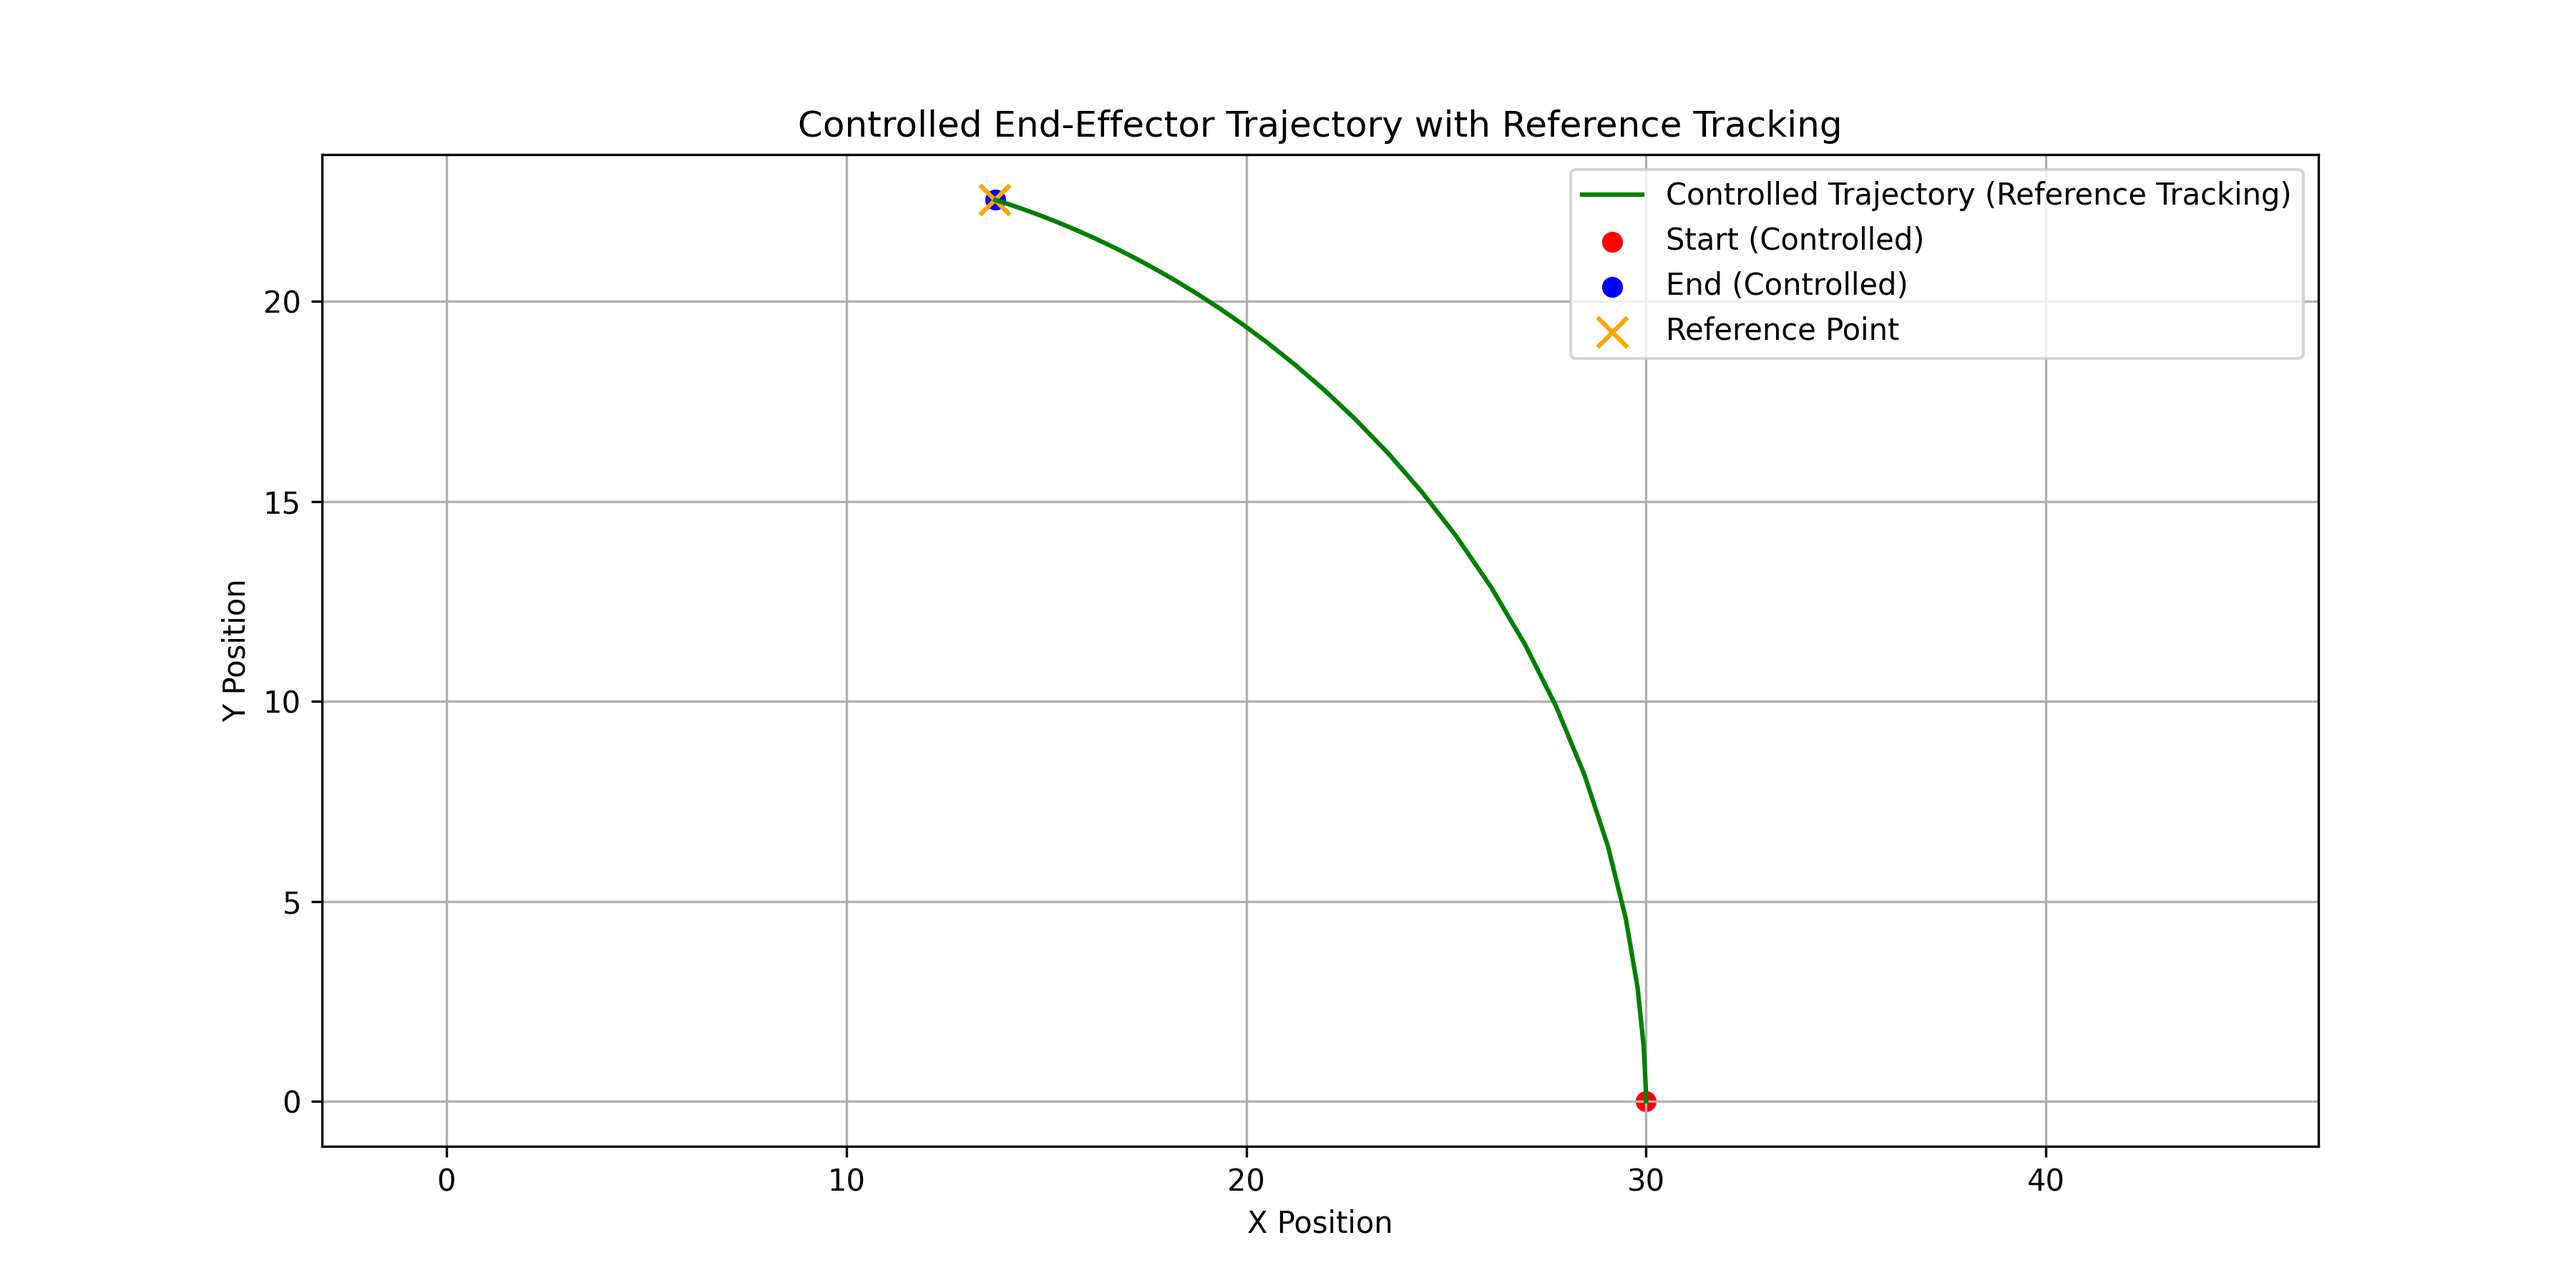
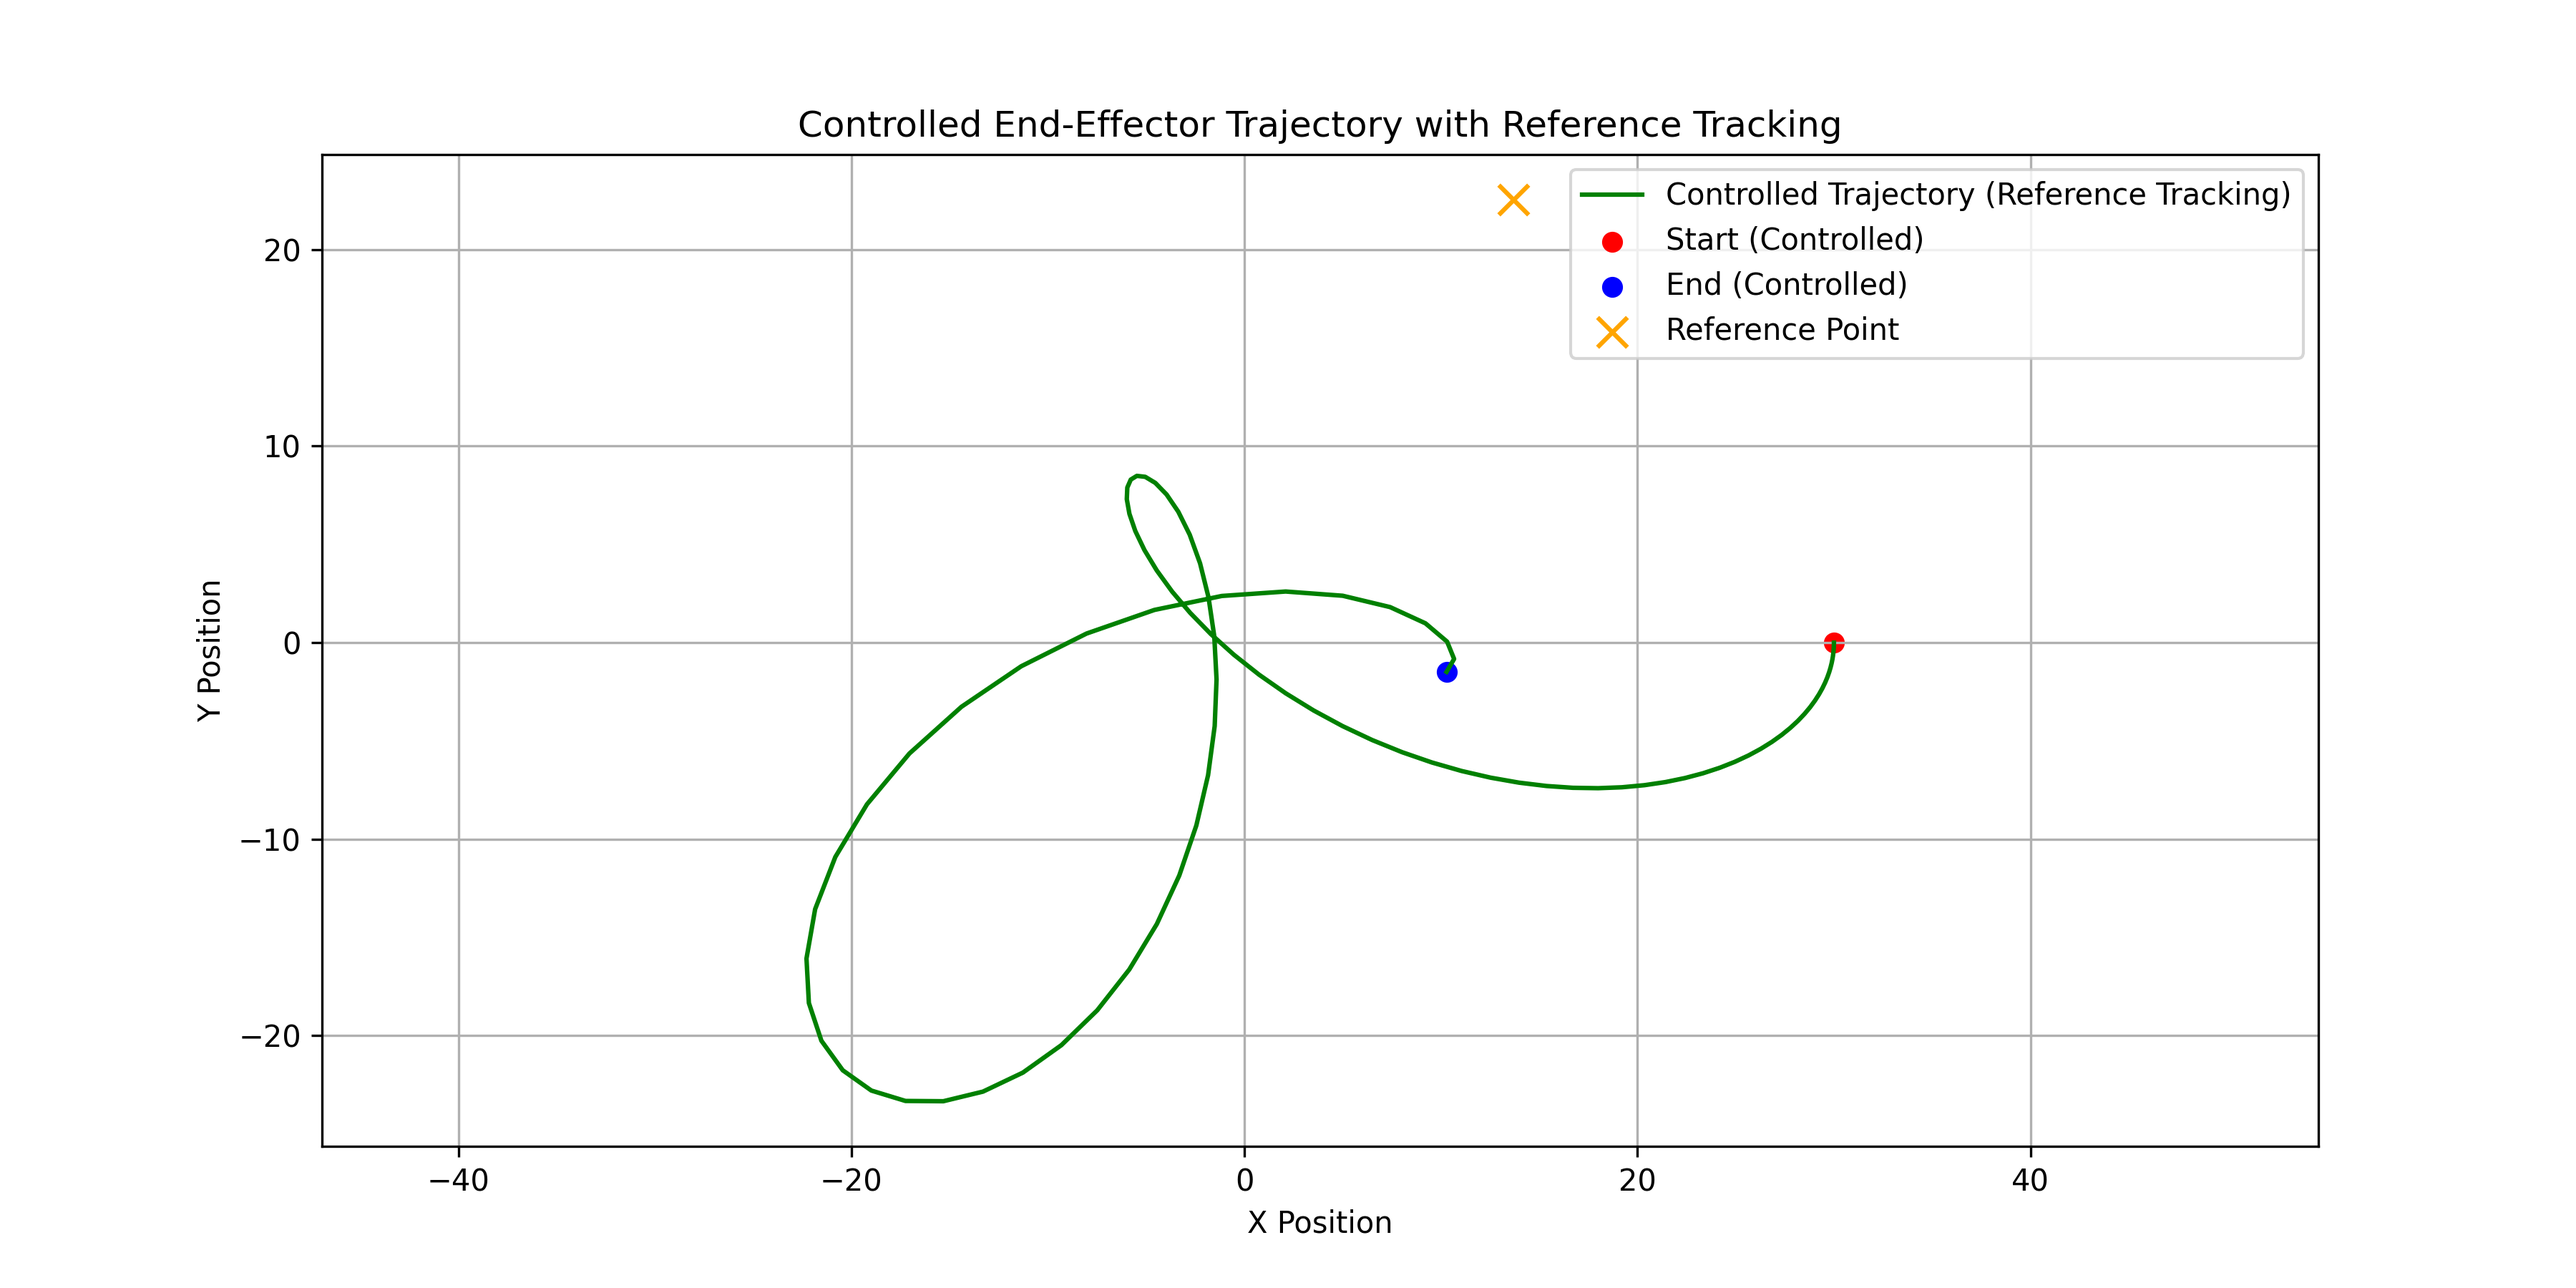
Add MPC - not working

diff --git a/Scripts/MPC.py b/Scripts/MPC.py
@@ -1,6 +1,7 @@
 import jax
 import jax.numpy as jnp
 import numpy as np
+import cvxpy as cp
 from sympy import symbols, N
 import matplotlib.pyplot as plt
 from matplotlib.animation import FuncAnimation
@@ -97,49 +98,74 @@ print("Controllability Matrix (Q_c):")
 print(controllability_matrix)
 print("\nIs the system controllable?", is_controllable)
 
-# Define LQR controller function
-def lqr(A, B, Q, R):
-    """Solve the continuous-time LQR controller."""
-    P = solve_continuous_are(A, B, Q, R)  # Solve Riccati equation
-    K = np.linalg.inv(R) @ (B.T @ P)  # Compute gain matrix
-    return K, P
+# Aggressive control weights
+Q = jnp.diag(jnp.array([500.0] * 3 + [0.0] * 3))  # High state cost
+R = np.eye(B.shape[1]) * 0.001  # Low control effort cost
+R_delta = np.eye(B.shape[1]) * 0.1  # Penalize slow changes in input
 
-# Define Q and R matrices
-cared_states_matrix = jnp.zeros((6, 6))
-cared_states_matrix = cared_states_matrix.at[:3, :3].set(jnp.eye(3))
+# Shorter prediction horizon
+N = 10
 
-Q = cared_states_matrix*100 # State cost matrix
-R = np.eye(B.shape[1])*0.001  # Control effort cost matrix
+# Expanded constraints
+u_max = 500
+u_min = 0
 
-def enforce_positive_input(u, bias=0.01):
-    return jnp.maximum(u, bias)
+# Solve MPC with updated aggressive settings
+def solve_mpc(x, x_ref, A, B, Q, R, R_delta, N, u_min=0, u_max=50):
+    # Convert matrices to NumPy for cvxpy
+    A_np, B_np, Q_np, R_np, R_delta_np = map(np.array, (A, B, Q, R, R_delta))
+    x_np = np.array(x)
+    x_ref_np = np.array(x_ref)
 
-# Compute LQR gain matrix
-K_lqr, P = lqr(A, B, Q, R)
+    n, m = A_np.shape[0], B_np.shape[1]
 
-print("LQR Gain Matrix (K):")
-print(K_lqr)
+    # Check dimensions
+    assert n > 0, "State dimension must be greater than 0."
+    assert m > 0, "Input dimension must be greater than 0."
+    assert N > 0, "Prediction horizon must be a positive integer."
 
-# Define the desired reference state
-# Adjust generalized coordinates or velocities as needed
-x_ref = jnp.array([0.5, 0.4, 0.8, 0.0, 0.0, 0.0])  # Reference generalized coordinates and velocities
+    U = cp.Variable((N, m))
+    X = cp.Variable((N + 1, n))
 
-# Update the state-space dynamics with LQR control and reference tracking
-def state_space_dynamics_with_reference(t, x, A, B, K, x_ref, u_log):
-    # Compute control input with reference tracking
-    u_t = -K @ (x - x_ref)
+    constraints = [X[0] == x_np]
+    cost = 0
+
+    for k in range(N):
+        cost += cp.quad_form(X[k] - x_ref_np, Q_np) + cp.quad_form(U[k], R_np)
+        constraints += [X[k + 1] == A_np @ X[k] + B_np @ U[k]]
+        constraints += [U[k] >= u_min, U[k] <= u_max]
+
+    problem = cp.Problem(cp.Minimize(cost), constraints)
+    problem.solve()
+
+    if problem.status != cp.OPTIMAL:
+        raise ValueError("MPC optimization problem not solved to optimality!")
+
+    return np.array(U.value[0]).flatten()
+
+
+
+# Update the state-space dynamics to use MPC
+def state_space_dynamics_with_mpc(t, x, A, B, x_ref, u_log):
+    u_t = solve_mpc(np.array(x), x_ref, A, B, Q, R, R_delta, N, u_min, u_max)
     dxdt = A @ x + B @ u_t
     u_log.append(u_t)
     return dxdt
 
-# Initial conditions (all states start at zero)
+
+x_ref = jnp.array([0.5, 0.4, 0.8, 0.0, 0.0, 0.0])  # Reference generalized coordinates and velocities
 x0 = jnp.zeros(A.shape[0])
 
-u_log = []
+def end_effector_position(q1, q2, q3, l_val):
+    # Compute position using forward kinematics
+    x = l_val * (jnp.cos(q1) + jnp.cos(q1 + q2) + jnp.cos(q1 + q2 + q3))
+    y = l_val * (jnp.sin(q1) + jnp.sin(q1 + q2) + jnp.sin(q1 + q2 + q3))
+    return x, y
 
-# Solve the closed-loop system with LQR and reference point
-solution_with_reference = solve_ivp(
-    fun=lambda t, x: state_space_dynamics_with_reference(t, x, A, B, K_lqr, x_ref, u_log),
+# Solve the closed-loop system with MPC
+u_log = []
+solution_with_mpc = solve_ivp(
+    fun=lambda t, x: state_space_dynamics_with_mpc(t, x, A, B, x_ref, u_log),
     t_span=t_span,
     y0=x0,
     t_eval=jnp.linspace(t_span[0], t_span[1], num_steps)
@@ -148,27 +174,20 @@ solution_with_reference = solve_ivp(
 u_values = np.array(u_log)
 
 # Extract states from the solution
-states_with_reference = solution_with_reference.y.T
+states_with_mpc = solution_with_mpc.y.T
 
-# Define the function to compute the end-effector position
-def end_effector_position(q1, q2, q3, l_val):
-    # Compute position using forward kinematics
-    x = l_val * (jnp.cos(q1) + jnp.cos(q1 + q2) + jnp.cos(q1 + q2 + q3))
-    y = l_val * (jnp.sin(q1) + jnp.sin(q1 + q2) + jnp.sin(q1 + q2 + q3))
-    return x, y
-
-# Compute the end-effector position over time with reference tracking
-end_effector_x_ref = []
-end_effector_y_ref = []
-for state in states_with_reference:
-    q1, q2, q3 = state[:3]  # Extract generalized coordinates
+# Compute the end-effector position over time with MPC
+end_effector_x_mpc = []
+end_effector_y_mpc = []
+for state in states_with_mpc:
+    q1, q2, q3 = state[:3]
     x, y = end_effector_position(q1, q2, q3, l_val)
-    end_effector_x_ref.append(x)
-    end_effector_y_ref.append(y)
+    end_effector_x_mpc.append(x)
+    end_effector_y_mpc.append(y)
 
 # Convert to NumPy arrays for plotting
-end_effector_x_ref = np.array(end_effector_x_ref)
-end_effector_y_ref = np.array(end_effector_y_ref)
+end_effector_x_ref = np.array(end_effector_x_mpc)
+end_effector_y_ref = np.array(end_effector_y_mpc)
 
 ref = end_effector_position(x_ref[0],x_ref[1],x_ref[2],l_val)
 
@@ -189,8 +208,8 @@ plt.close()  # Close the figure after saving
 
 # Plot controlled end-effector positions over time with reference tracking
 plt.figure(figsize=(12, 6))
-plt.plot(solution_with_reference.t, end_effector_x_ref, label="X Position (Reference Tracking)", color="blue")
-plt.plot(solution_with_reference.t, end_effector_y_ref, label="Y Position (Reference Tracking)", color="red")
+plt.plot(solution_with_mpc.t, end_effector_x_ref, label="X Position (Reference Tracking)", color="blue")
+plt.plot(solution_with_mpc.t, end_effector_y_ref, label="Y Position (Reference Tracking)", color="red")
 plt.axhline(y=ref[0], color='orange', linestyle='--', label="X Reference", linewidth=1)
 plt.axhline(y=ref[1], color='purple', linestyle='--', label="Y Reference", linewidth=1)
 plt.title("End-Effector Position Over Time with Reference Tracking")
@@ -218,10 +237,10 @@ plt.close()  # Close the figure after saving
 show_animation
 '''
 
-times = solution_with_reference.t
-q1 = [states[0] for states in solution_with_reference.y.T]
-q2 = [states[1] for states in solution_with_reference.y.T]
-q3 = [states[2] for states in solution_with_reference.y.T]
+times = solution_with_mpc.t
+q1 = [states[0] for states in solution_with_mpc.y.T]
+q2 = [states[1] for states in solution_with_mpc.y.T]
+q3 = [states[2] for states in solution_with_mpc.y.T]
 
 # Create finer time points for smoother animation
 smooth_time_points = np.linspace(t_span[0], t_span[1], 5 * num_steps)  # 5x frames
